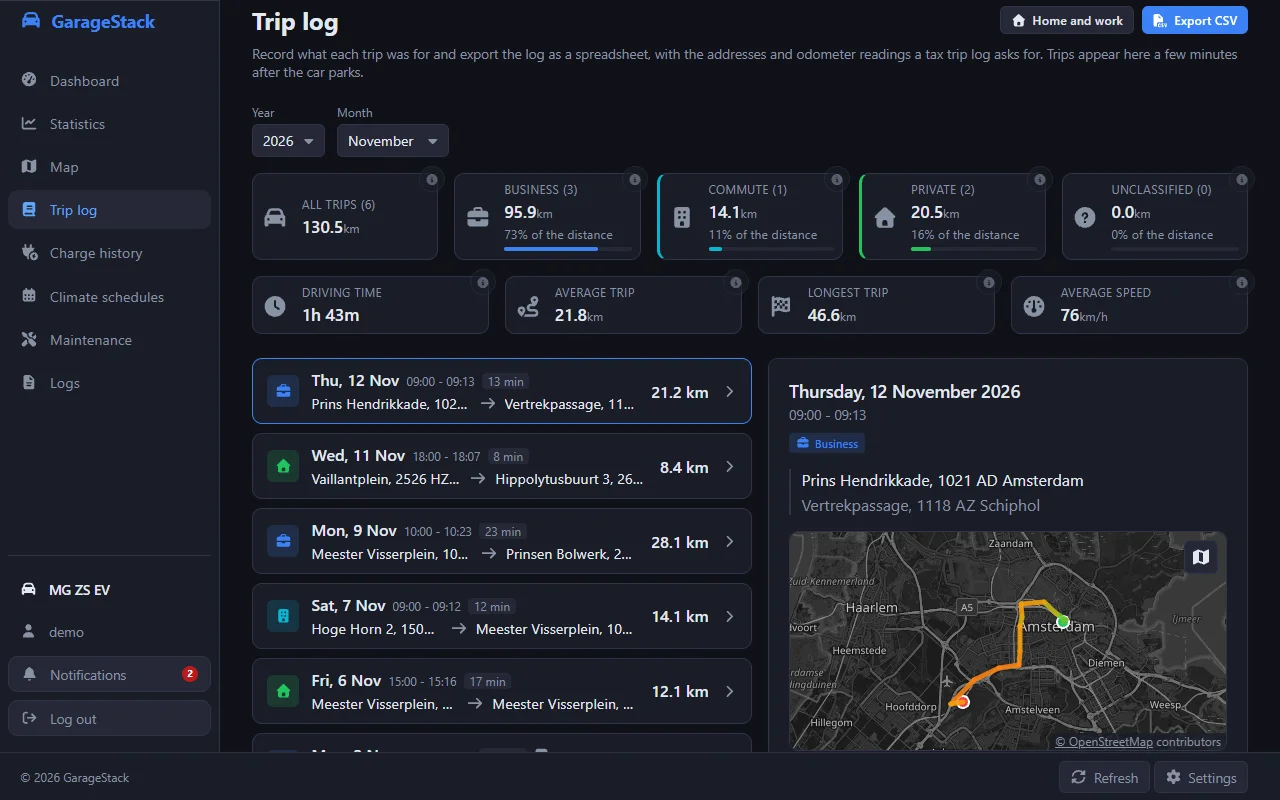
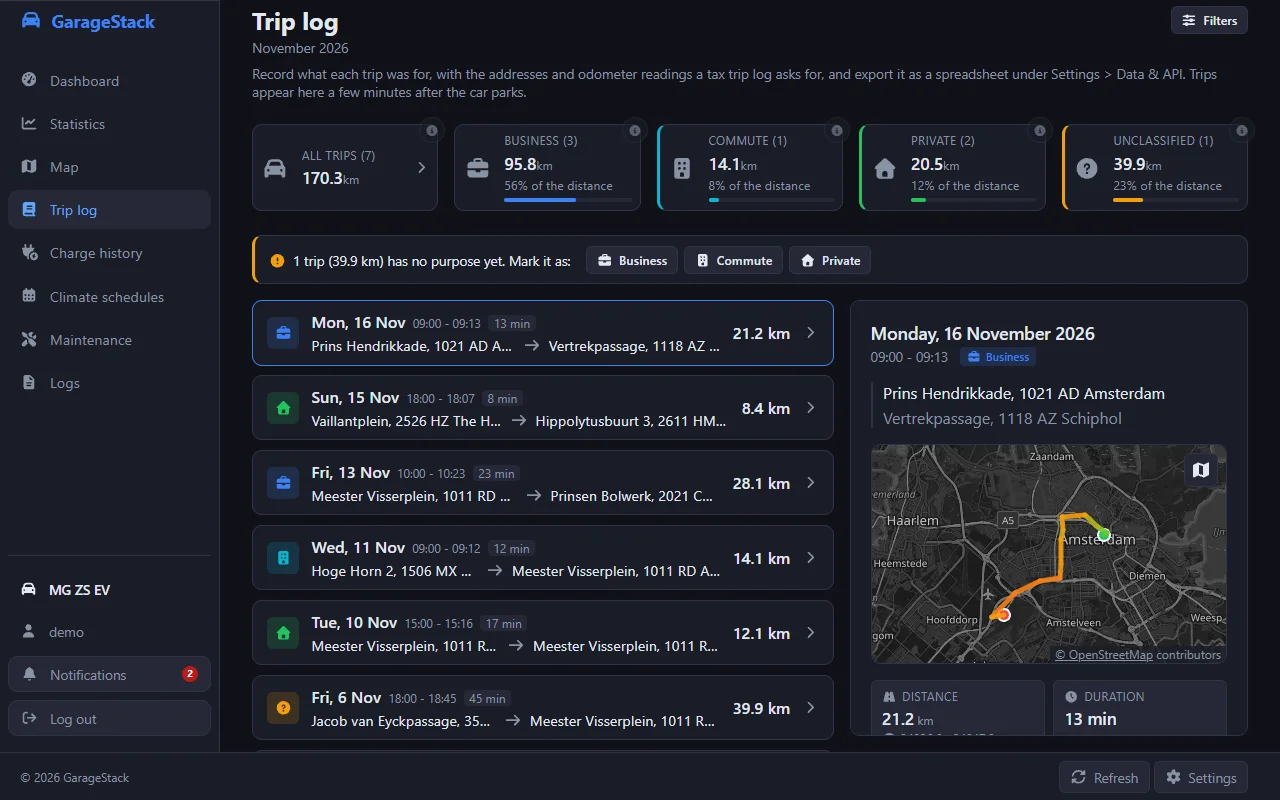
docs: trip log page in the architecture notes, new trip log screenshots
ARCHITECTURE.md describes the trip log page as it is now: the filters
panel, the driving figures dialog, and the detail panel beside the list
whose height useRoomBelow keeps inside the window. The gallery's trip
log screenshots are retaken, and their alt text no longer mentions the
driving figure cards.

Changed region(s): [[0.1875, 0.0, 1.0, 0.9375], [0.75, 0.3438, 0.7812, 0.375]]

diff --git a/documentation/ARCHITECTURE.md b/documentation/ARCHITECTURE.md
@@ -97,6 +97,7 @@ The trip log (`/trip-log`, `TripEndpoints`) shows only saved trips, because only
 - **The route editor page** (`/trips/:id/edit`, `TripEditView`) is opened from a trip log line or from under the selected saved trip in the map's list. It is a page rather than a dialog, because panning a map inside a scrolling bottom sheet fights the scroll on a phone. On a phone the map fills the screen above a bar with the controls; from 1024 px the controls sit beside it. `TripEditMap` draws the recorded route faint and dashed under the edited one, with 44 px start and end markers that can be dragged, though tapping the map is the main way to move them. `TripEditPanel` holds the controls. The editing itself is in `useTripEditor` and `utils/tripEdit.ts`, which hold no Leaflet. The car's own fixes are never moved: moving the start or end past one adds a placed point in front of it or after it, with a time at 25 km/h, and a fix can only be removed. An added point gets a time as far between its neighbours as it lies along the segment. Every step goes on an undo stack. Saving a route that is back as recorded calls the reset endpoint rather than storing an edit.
 - **Dashed stretches.** Wherever a trip's line runs to or from a point with a source, the map draws it dashed (`utils/tripSources.ts`, a line in the map's own colour laid over the trip's). It follows the snapped line between the points' vertices once there is one. The compact format carries the sources in `sources`, and `unpackTrip` puts them back on the points.
 - **Purpose and notes** are the only other fields a driver changes. The purpose is stored by name and travels as `business`, `commute` or `private`. `TripPurposeJsonConverter` refuses numbers, which the stock enum converter would accept.
+- **The page** (`TripLogView`) keeps its period and the hidden trips switch behind the header's filters button (`TripLogFilterPanel`, the `ToolbarPanel` the map and statistics use) and names the period under its title. The totals per purpose come from the trip log store; the driving figures (time, average and longest trip, average speed) open in `TripLogSummaryModal` from the "All trips" card. From 1024 px (`WIDE_MEDIA_QUERY`) the selected trip's `TripLogDetail` stands in a sticky panel beside the list, and below that in a `DetailModal`. The panel starts below the totals, so `useRoomBelow` measures the room from its top to the bottom of the scrolling column on scroll, resize and content changes, and sets it as `--room-below`, which `tripLog.css` caps the panel's height with. What does not fit scrolls inside the panel, never past the bottom of the window. The custom property is set through the CSSOM, which the Content Security Policy allows; a `style` attribute in the markup it does not.
 - **Export** lives in the settings (`TripLogExportSetting`, `useTripLogExport`) and is built in the browser (`utils/tripLogCsv.ts`). It reads the period's trips itself rather than through the trip log store, so exporting never changes what the trip log page shows, and looks up the missing addresses first through the same rounds the page uses (`utils/tripLogPlaces.ts`). Closing the settings stops the lookup and saves nothing. Fields are separated by commas in English and by semicolons in Dutch, Spanish and Portuguese, where the comma is the decimal separator. The file starts with a UTF-8 byte order mark for Excel. Text that a spreadsheet would run as a formula gets a leading apostrophe.
 
 The `AddTripLog` migration clears the trips saved before it and resets the recording line, and the Worker saves them again with their new columns. Nothing is lost: until that migration, nothing a driver could enter was kept on a trip.

diff --git a/documentation/screenshots/README.md b/documentation/screenshots/README.md
@@ -26,7 +26,7 @@ The main pages of GarageStack, on a desktop and on a phone. They were taken in [
 
 ### Trip log
 
-![The trip log: totals per purpose and driving figures for the month, a compact list of trips with their purpose, times, addresses and distance, and beside it the selected trip's details with its route on a map](desktop-trip-log.webp)
+![The trip log: the month under the title with a filters button beside it, totals per purpose, a compact list of trips with their purpose, times, addresses and distance, and beside it the selected trip's details with its route on a map](desktop-trip-log.webp)
 
 ### Editing a trip's route
 
